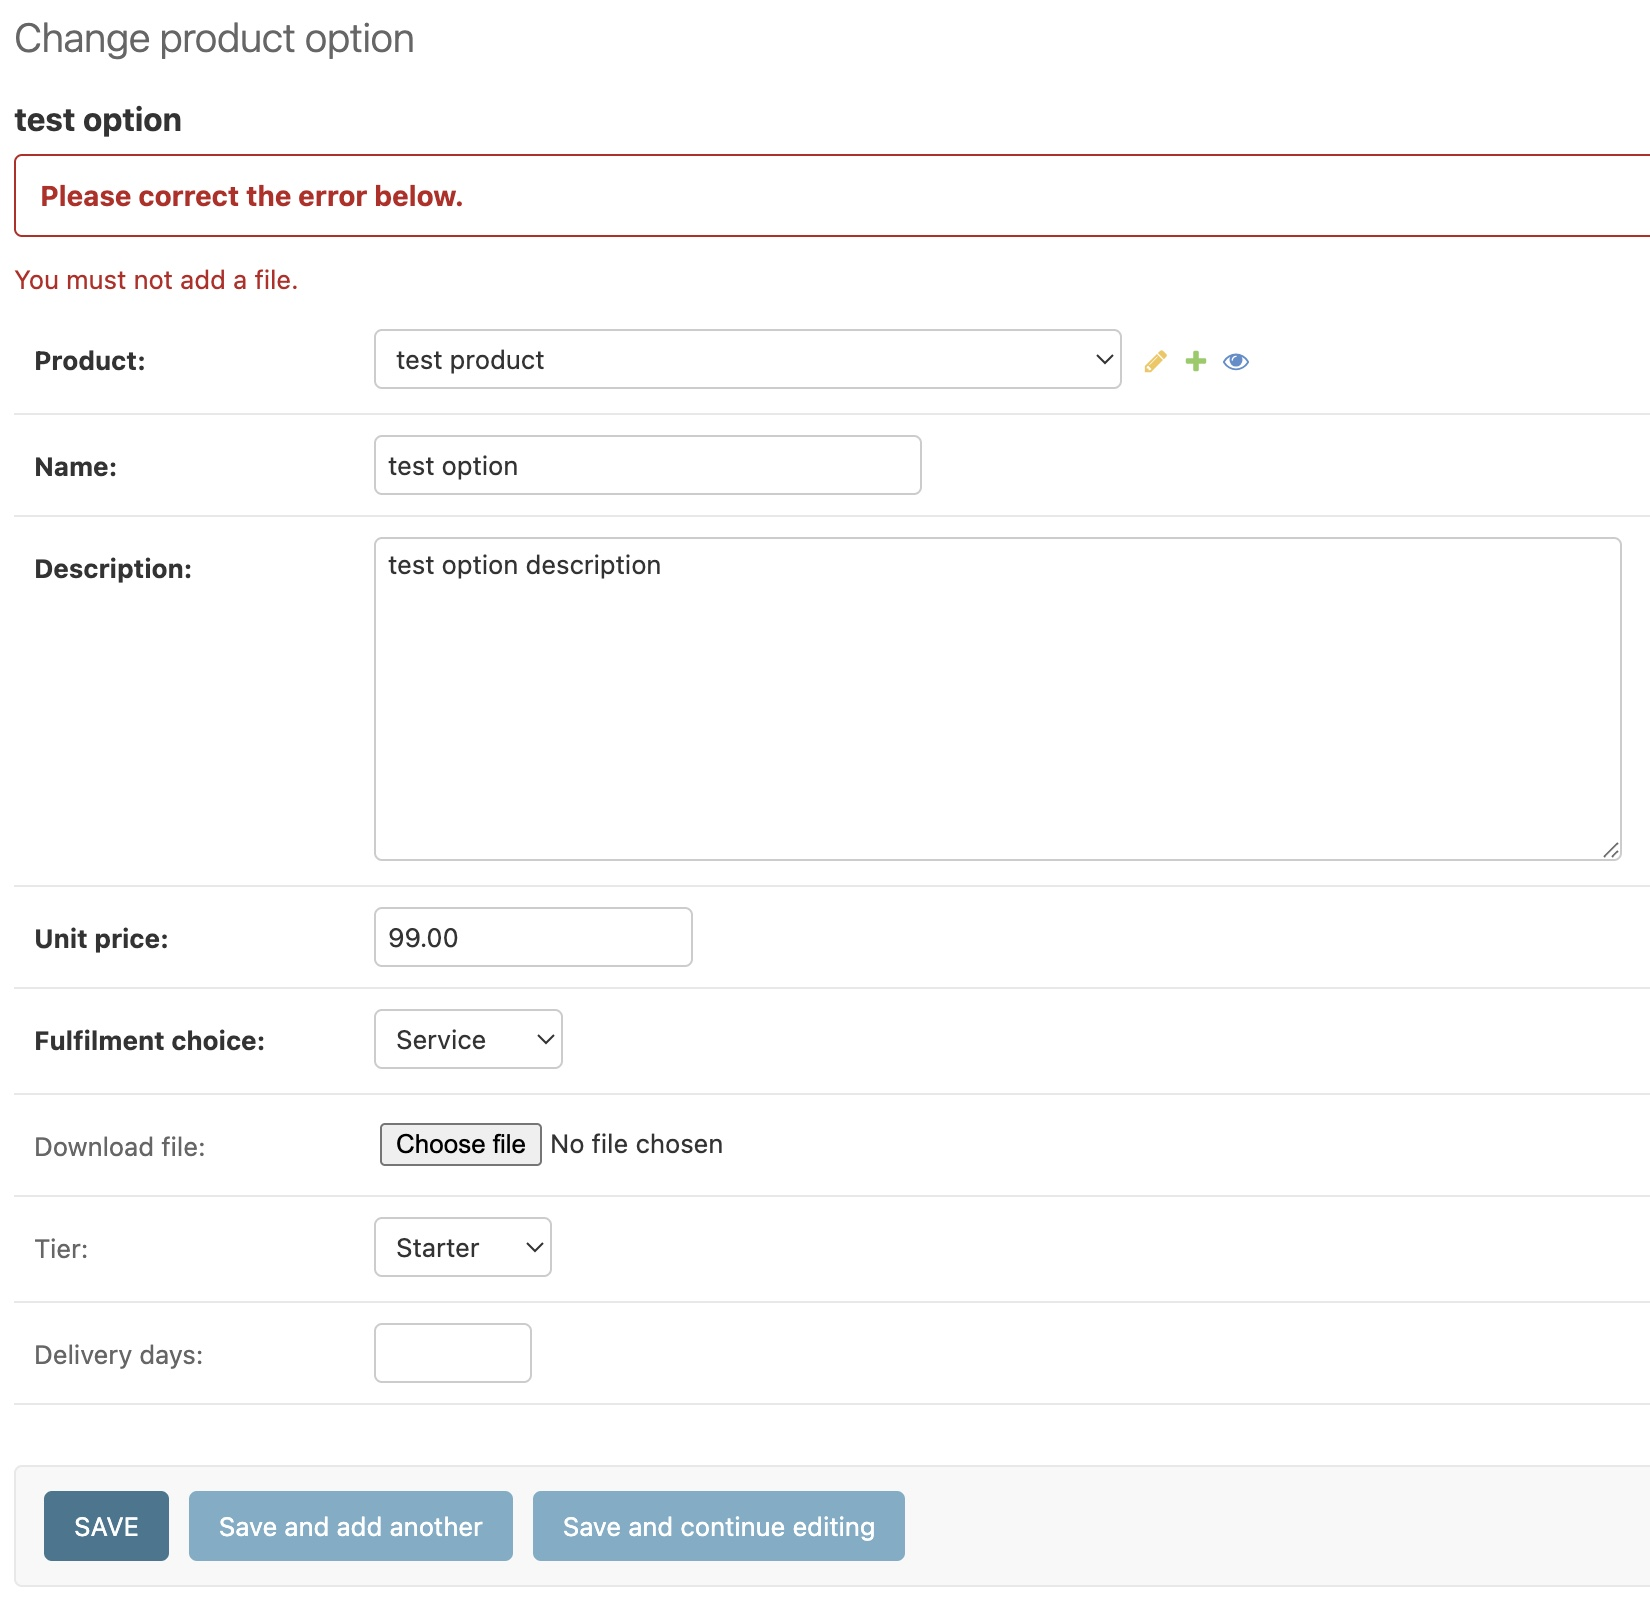
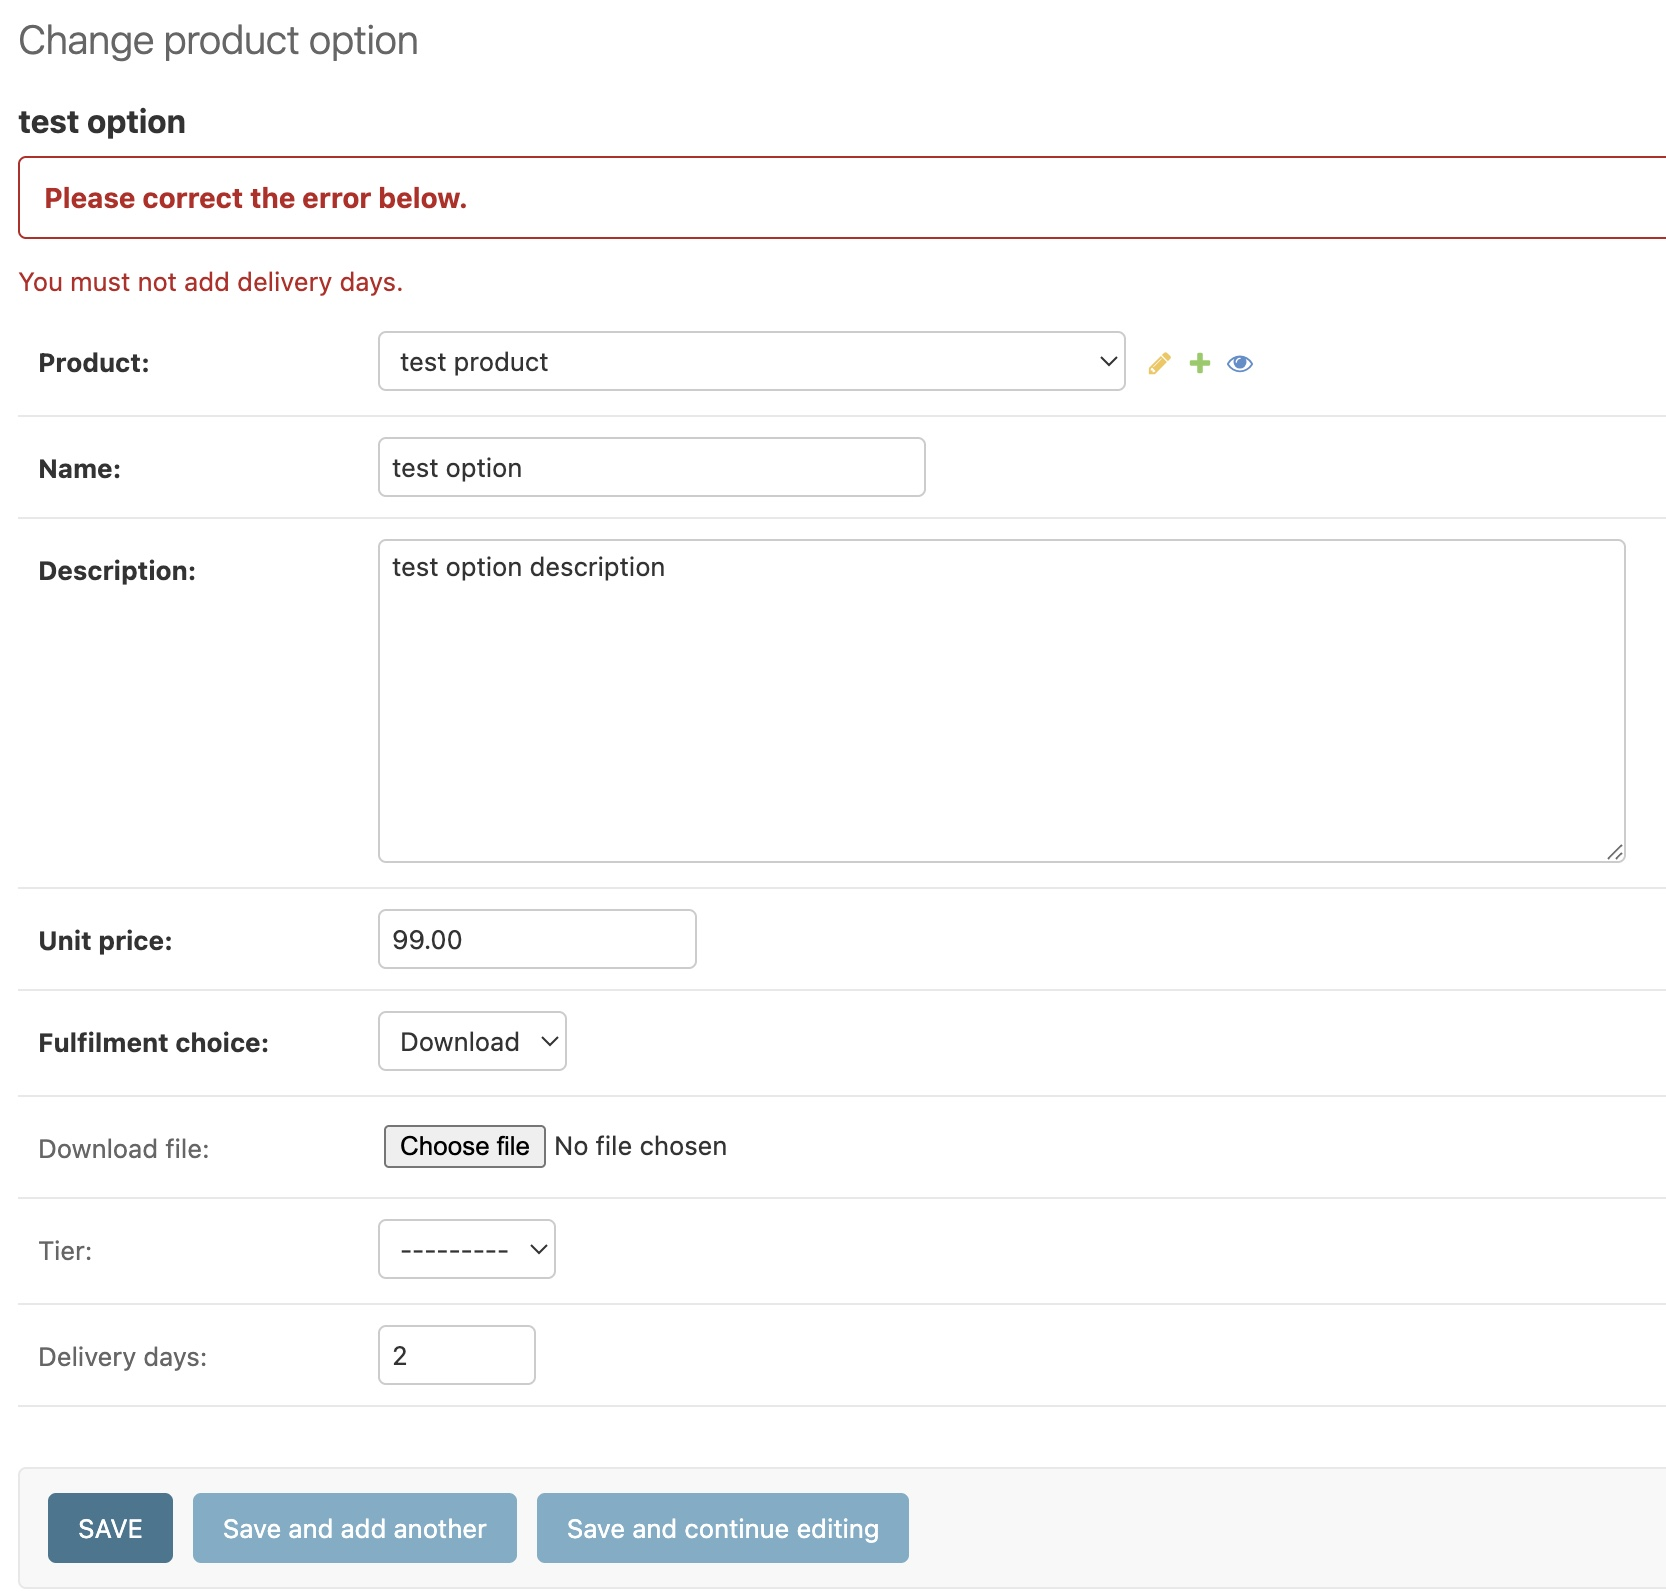
Add defensive evidence and update image

diff --git a/TESTING.md b/TESTING.md
@@ -199,7 +199,7 @@ Defensive programming was manually tested with the below user acceptance testing
 | | Feature is expected to require delivery days when a ProductOption is configured as a Set Up Service. | Attempted to save a ProductOption with fulfilment choice set to "Set Up Service" without specifying delivery days. | The admin form prevented the invalid save and displayed the validation error: "You must add delivery days." | ![screenshot](documentation/defensive/admin-delivery-days-validation.jpeg) |
 | | Feature is expected to prevent delivery days from being assigned to ProductOptions configured as DIY Templates. | Attempted to save a ProductOption with fulfilment choice set to "DIY Template" while specifying delivery days. | The admin form prevented the invalid save and displayed the validation error: "You must not add delivery days." | ![screenshot](documentation/defensive/admin-diy-delivery-days-validation.jpeg) |
 | | Feature is expected to require delivery days when a custom workflow tier is selected. | Attempted to save a ProductOption with a custom workflow tier selected but without specifying delivery days. | The admin form prevented the invalid save and displayed the validation error: "You must add delivery days." | ![screenshot](documentation/defensive/admin-tier-delivery-days-validation.jpeg) |
-
+| 404 Error Page | Feature is expected to display a 404 error page for non-existent pages. | Navigated to an invalid URL (e.g., `/test`). | A custom 404 error page was displayed as expected. | ![screenshot](documentation/defensive/404.jpeg) |
 
 
 